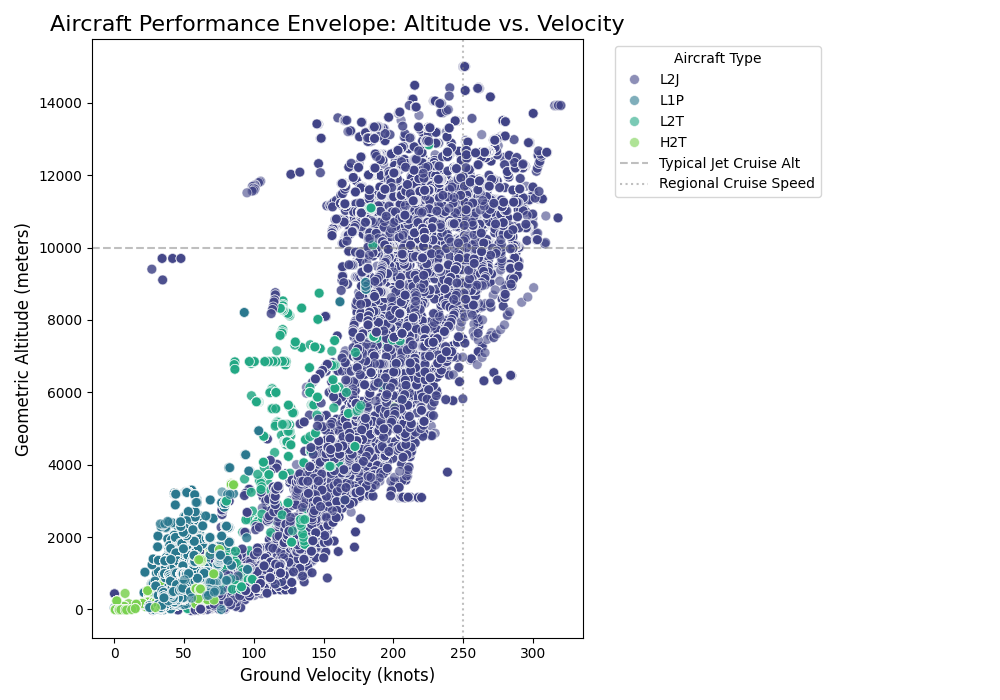
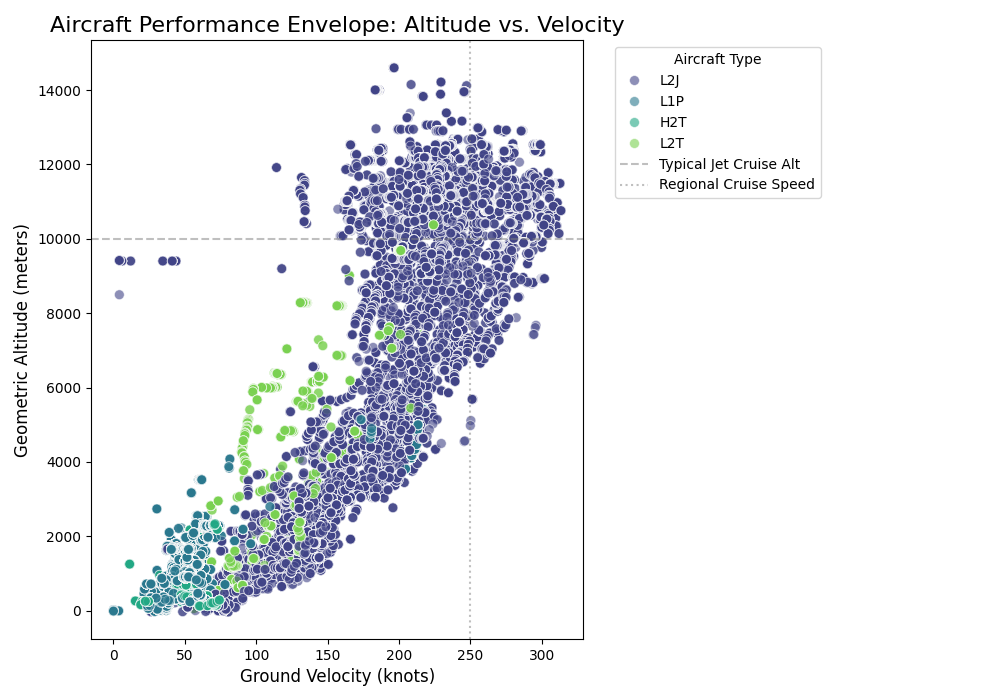
created readme

diff --git a/README.md b/README.md
@@ -1,23 +1,51 @@
-# DS_3022_DP3
+## Names:
+Tyler Abele and Landon Burtle
 
-## Overview
+## Data Source:
+We utilize the **OpenSky Network API** to ingest live aircraft state vectors. This provides real-time telemetry including position (lat/lon), altitude (geometric and barometric), velocity, and aircraft identification (ICAO 24-bit address).
 
-**API** -> https://openskynetwork.github.io/opensky-api/
+Additionally we use the Reference Data provided by the website to get information about both the airframes themseleves such as their model, operator, and aircraft type.
 
-**Aircraft Data Samples** -> https://opensky-network.org/datasets/#metadata/
+## Challenges:
 
-**All Scientific Datasets** -> https://opensky-network.org/data/scientific#d5
+1. **Streaming Data Volume & Windowing**: 
+   - Handling the continuous influx of state vectors required a robust streaming architecture. We implemented **3-minute tumbling windows** to aggregate state changes and calculate deltas, rather than processing isolated points.
+2. **Kafka Message Size Limits**: 
+   - Aggregating thousands of flight states into single windowed messages exceeded standard 1MB Kafka limits. We had to reconfigure Redpanda and our producers to handle **large batch sizes (up to 100MB)** to ensure no data was dropped during high-traffic periods.
+3. **Anomaly Definition**: 
+   - Distinguishing between sensor noise and genuine anomalies is difficult. We moved from simple thresholding to **context-aware analysis**, comparing aircraft not just against global limits but against their specific aircraft type (peer comparison) and physical capabilities.
 
-**Data Tools** -> https://opensky-network.org/data/tools
+## Pipeline
+Our analysis pipeline follows a **Modern Data Stack** approach:
+1. **Ingest**: Python producer polls OpenSky API every 10s. This appraoch allows us to get high volumes of data that is quickly updated and processed. This allows us to utilize a sliding window approach to analyze changes withing relatively small timeframes. We utilize a kafka producer to acheive this
+2. **Stream**: Redpanda (Kafka) consumer ingests the data and applies the sliding window set to a 3 minute window. This is insitrumental in our work for many reasons. The first important is that gives us multiple tries to locate an airraft withing a given window. Due to the limitations of the API and round radars, some aircraft may not be detected for a short period of time. Additionally, the windows allows us to do anomoly detection and analysis on a time scale. Since we will get about 18 different readings for an aircraft within a window, we can perform anomoly detection on a time scale..
+3. **Store**: S3stores processed Parquet files aswell as the data we need in order to perfrom analysis on our aircraft states. Since some of these files can be quite large its good to keep them on the cloud and only pull them into the duckdb when needed. We created permission roles so that anyone can pull our data, but only we can write to it.
+4. **Warehouse**: DuckDB performs high-performance analytical queries. We gather all of the parquet files and csv files and then do our analysis on them. The duckdb pipeline goes as follows: Loading, transforming, and then analysis. Additionally, we both do ananomoly detection over time and also analysis/plotting on the transformed data. 
+5. **Analysis**: We perform analysis on the transformed data. We perform both time series analysis and spatial analysis. We also perform analysis on the transformed data to identify patterns and trends. We then create our images and save them to the images folder.
 
-### Broad Guide
+### Note:
+We utilize a prefect workflow that, if given the right s3 persmission will run then entire pipeline automatically and produce new images with the updated data every 3 minutes. It is fully autonomous and will fun forever until stopped. However, if someone else is producing and consuming, anyone can run the workflow and still do the analysis and create the images.
 
-poll every N seconds (listen to stream) → push records → Kafka → S3 → DuckDB → dbt.
 
-Havent gotten to the super technical details yet but I think this is a good plan/starting point.
+## Analysis:
+Commercial aviation generates an enormous volume of telemetry every second, yet the overwhelming majority of aircraft follow highly regulated and predictable flight envelopes. This makes air travel remarkably safe, but it also creates a valuable analytical opportunity: because normal behavior is so consistent, deviations become highly detectable. Our goal was to quantify these deviations in real time and understand both where and how often aircraft stray from typical operating conditions.
 
-![diagram](image.png)
+ Aircraft performance is heavily constrained by atmospheric physics: at higher altitudes, reduced air density requires higher true airspeeds to maintain lift, while at lower altitudes, drag increases and operational limits restrict maximum speed. When plotting geometric altitude against ground velocity, we observed a clearly defined performance envelope across aircraft categories (L1P, L2J, etc.). Quite note: for the category, the first letter is the type of aircraft (L for plane H for helicopter) and the second letter is the number of engines, and the last letter is the type of engine (P for piston, J for jet, etc.). As expected, jets cluster tightly around higher-altitude, higher-speed regimes, while turboprops and piston aircraft occupy lower, slower operational bands. This envelope served as a foundation for distinguishing statistically “normal” flight behavior from outliers.
 
-idea behind project/ goal:
+To map where aircraft operate spatially, we produced a geospatial KDE heatmap, revealing global concentrations of active flights. Unsurprisingly, aircraft density is highest along established transcontinental corridors—North America, Europe, and East Asia—while anomalies tend to appear near highly trafficked hubs and transition points. This density model provided contextual grounding for interpreting outlier behavior geographically.
 
-analyze air traffic patterns to find anaomolies -- right now I have the folders laid out in a way that we might want to look at military aircraft movement around military bases -- maybe looking for anomalies? -- we could do anything with the aircraft data really though.
+Building on these baselines, we implemented a multidimensional anomaly-detection system using an Isolation Forest. Rather than relying on simplistic thresholds, this model detects irregular patterns based on how quickly a sample can be isolated from the rest of the dataset. Because normal aircraft follow predictable spatial, kinematic, and vertical profiles, deviations in variables such as latitude, longitude, barometric altitude, velocity, and vertical rate often produce significantly shorter isolation paths, marking the flight as anomalous. This method is particularly effective for aviation telemetry because it naturally captures complex interactions—high climb rates at unusually low altitudes, lateral deviations inconsistent with standard airways, or velocity profiles that violate typical aircraft-category boundaries.
+
+When applied to real flight windows, the model successfully identified a small but meaningful subset of flights flagged as anomalies. Some of these deviations correspond to benign causes—weather rerouting, holding patterns, or general-aviation variability—while others highlight operationally interesting behavior such as steep descents, abnormal climb rates, or flight paths deviating from established commercial routes. Visualizing these anomalies on a global map further illustrated their distribution: normal flights cluster densely along expected corridors, while anomalies appear intermittently across Europe, Southeast Asia, Oceania, and portions of South America.
+
+Overall, our analysis demonstrates that even within a globally consistent aviation ecosystem, detectable irregularities occur constantly, and machine-learning methods provide a powerful framework for quantifying these deviations at scale. By combining aerodynamic performance modeling, spatial density analysis, and unsupervised anomaly detection, we can effectively identify outliers in a system where normal behavior is both abundant and well understood.
+
+## Github 
+
+[Repo Link](https://github.com/Tyler-Abele/DS_3022_DP3)
+
+## Plots
+
+![Altitude vs. Velocity Scatter Plot](images/altitude_velocity_scatter.png)
+
+![Anomoly detection Map](images/anomaly_detection_map.png)
